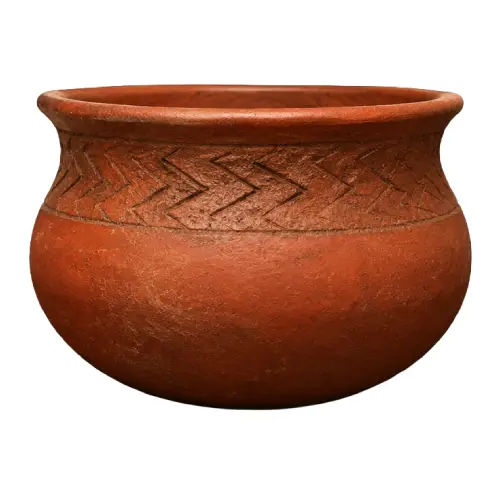
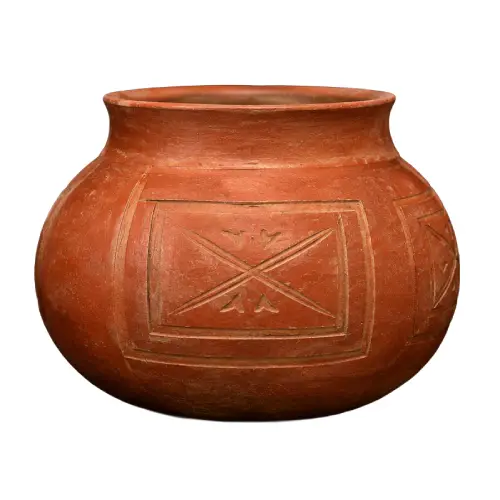
fix: adjust positioning and padding for interactive elements in CSS and HTML

diff --git a/css/interior.css b/css/interior.css
@@ -76,7 +76,7 @@
 /* Piezas interactivas sobre la mesa */
 .elements-horizontal-container {
   position: absolute;
-  bottom: 24%;
+  bottom: 52%;
   left: 0;
   width: 100%;
   display: flex;
@@ -117,7 +117,7 @@
   display: flex;
   justify-content: center;
   align-items: center;
-  padding: 16px;
+  padding: 16px 16px 40px;
 }
 
 .dialog-content-wrapper {
@@ -130,6 +130,8 @@
   overflow: hidden;
   display: flex;
   flex-direction: column;
+  transform: translateY(-24px);
+  margin: auto;
 }
 
 .dialog-header {
@@ -221,7 +223,7 @@ model-viewer {
   }
 
   .elements-horizontal-container {
-    bottom: 38%;
+    bottom: 58%;
     gap: 14px;
   }
 
@@ -232,6 +234,7 @@ model-viewer {
   .dialog-content-wrapper {
     width: min(90vw, 760px);
     max-height: min(85vh, 460px);
+    transform: translateY(-12px);
   }
 
   .dialog-body {

diff --git a/style.css b/style.css
@@ -698,7 +698,7 @@ video {
 
 .elements-horizontal-container {
   position: absolute;
-  bottom: 24%;
+  bottom: 52%;
   left: 0;
   width: 100%;
   display: flex;
@@ -739,7 +739,7 @@ video {
   display: flex;
   justify-content: center;
   align-items: center;
-  padding: 16px;
+  padding: 16px 16px 40px;
 }
 
 .dialog-content-wrapper {
@@ -752,6 +752,8 @@ video {
   overflow: hidden;
   display: flex;
   flex-direction: column;
+  transform: translateY(-24px);
+  margin: auto;
 }
 
 .dialog-header {
@@ -1008,7 +1010,7 @@ model-viewer {
   }
 
   .elements-horizontal-container {
-    bottom: 38%;
+    bottom: 58%;
     gap: 14px;
   }
 
@@ -1019,6 +1021,7 @@ model-viewer {
   .dialog-content-wrapper {
     width: min(90vw, 760px);
     max-height: min(85vh, 460px);
+    transform: translateY(-12px);
   }
 
   .dialog-body {

diff --git a/index.html b/index.html
@@ -220,6 +220,7 @@
             camera-controls
             auto-rotate
             ar
+            bounds="tight"
             shadow-intensity="1"
             loading="eager"
             reveal="auto"
